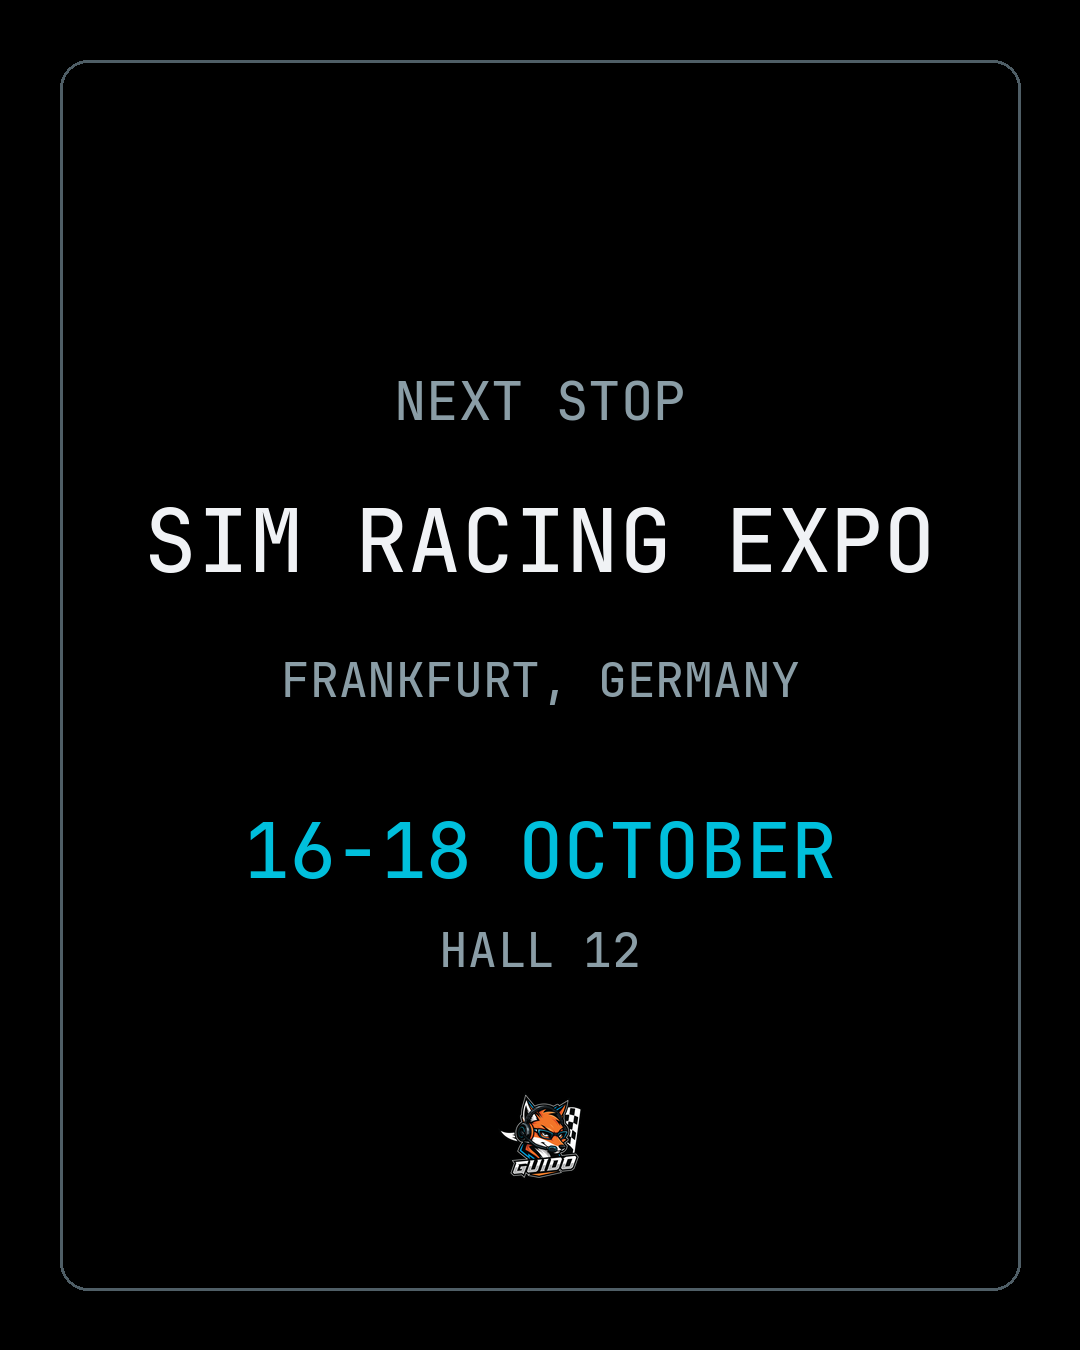
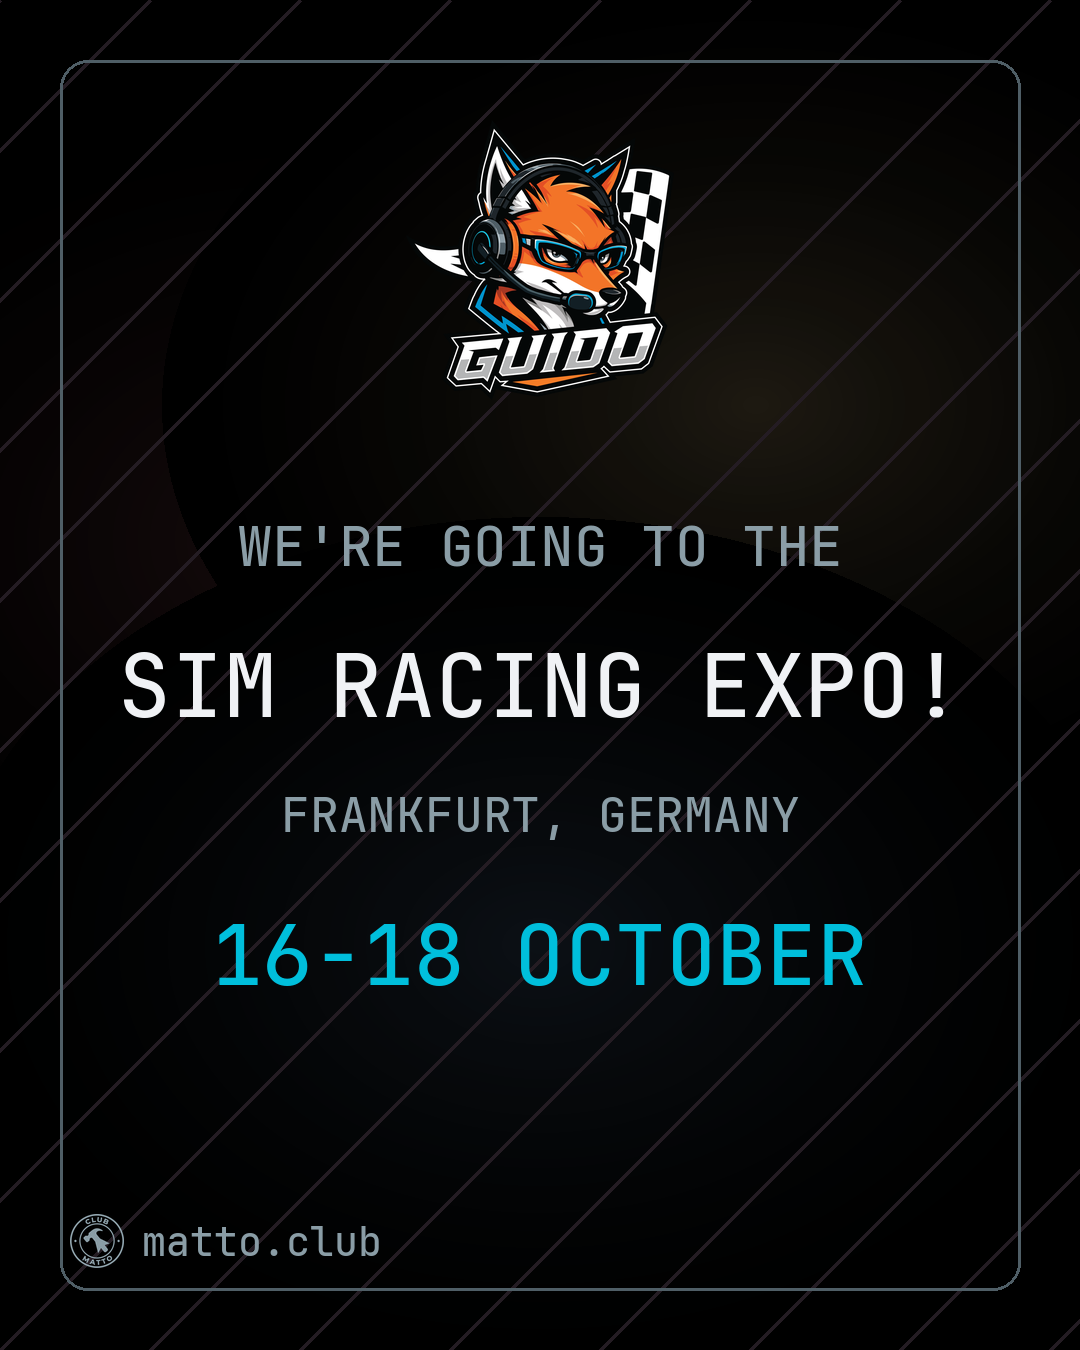
docs(mercato): rework the expo board, add the intro board, edit drafts

diff --git a/mercato/instagram/2026-10-09-meet-guido.md b/mercato/instagram/2026-10-09-meet-guido.md
@@ -1,17 +1,15 @@
 ---
 title: "Meet Guido, the story"
-platforms:
-  - instagram
-publish_date: 2026-10-09
-image: https://github.com/clubmatto/vetrina/blob/main/website/src/assets/products/guido/logo-lockup.png
+platform: instagram
 topics:
   - guido
   - sim-racing
+image: https://github.com/clubmatto/vetrina/blob/main/website/src/assets/products/guido/pitboard-intro.png
 ---
 
 🚀 Meet Guido, your race engineer 🚀
 
-Real drivers never drive alone: someone on the radio reads the
+Real-world drivers never drive alone: someone on the radio reads the
 telemetry and does the maths mid-race, so the driver just drives.
 Sim racers got dashboards instead: numbers you have to read at
 250 km/h.
@@ -19,7 +17,7 @@ Sim racers got dashboards instead: numbers you have to read at
 We built the co-driver we were missing.
 
 Guido watches your fuel, calls "box this lap" before the tank runs
-dry, and answers when you ask out loud. It lives on a spare phone,
+dry, and answers when you ask out loud. It lives on a spare device,
 speaks Gran Turismo 7, Le Mans Ultimate and Assetto Corsa, and
 finds your rig on the network by itself. Your telemetry never
 leaves your Wi-Fi.

diff --git a/mercato/drafts/deepseek-vs-frontier-cost.md b/mercato/drafts/deepseek-vs-frontier-cost.md
@@ -11,18 +11,18 @@ topics:
 
 ## LinkedIn
 
-We ran a full month of coding-agent work on DeepSeek. The bill: €<SPEND> (input <IN>M, output <OUT>M tokens).
+At Club Matto, we practice agentic coding primarily on DeepSeek.
 
-Curiosity got us: what would the same tokens cost on the frontier models? We cannot test those directly, since we do not use them. So we priced our real usage at the published per-million rates.
+The bill: €<SPEND>(input <IN>M, output <OUT>M tokens).
 
-The multiple: <MULTIPLE>x.
+Curiosity got us: what would the same tokens cost on the frontier models?
+We cannot test those directly, since we do not use them. So we priced our real
+usage at the published per-million rates.
 
-Screenshot of the actual dashboard below. Numbers over vibes.
 
 ## Twitter
 
 A month of coding-agent work on DeepSeek cost us €<SPEND>.
 
-The same tokens on frontier models: <MULTIPLE>x. We cannot test those directly, so we priced our real usage at published rates.
-
-Numbers over vibes.
+The same tokens on frontier models: <MULTIPLE>x. We cannot test those directly,
+so we priced our real usage at published rates.

diff --git a/mercato/drafts/next-stop-sim-racing-expo.md b/mercato/drafts/next-stop-sim-racing-expo.md
@@ -9,16 +9,11 @@ topics:
   - sim-racing
 ---
 
-🏁 Next stop: Sim Racing Expo, Frankfurt, 16-18 October.
+🏁 Next stop: Sim Racing Expo, Frankfurt, 16-18 October. 🏁
 
-We are packing Guido and flying to Germany. Three days of rigs, telemetry
-and people who understand why you would build a co-driver for a hobby.
-
-If you are going too: tell us. Who else is in? And what should we
-absolutely not miss — the rigs to try, the talks to catch, the stands to
-avoid on a full stomach?
-
-Come say hi if you spot us. Guido will be watching someone's fuel. 🛞
+The team that built Guido is going to the Sim Racing Expo. If you are going
+too: tell us! We'd love to meet you and talk about
+everything sim racing.
 
 #simracing #simracingexpo #simracingcommunity #granturismo7 #gt7
 #lemanultimate #assettocorsa #racingsimulator #simracer #simrig
